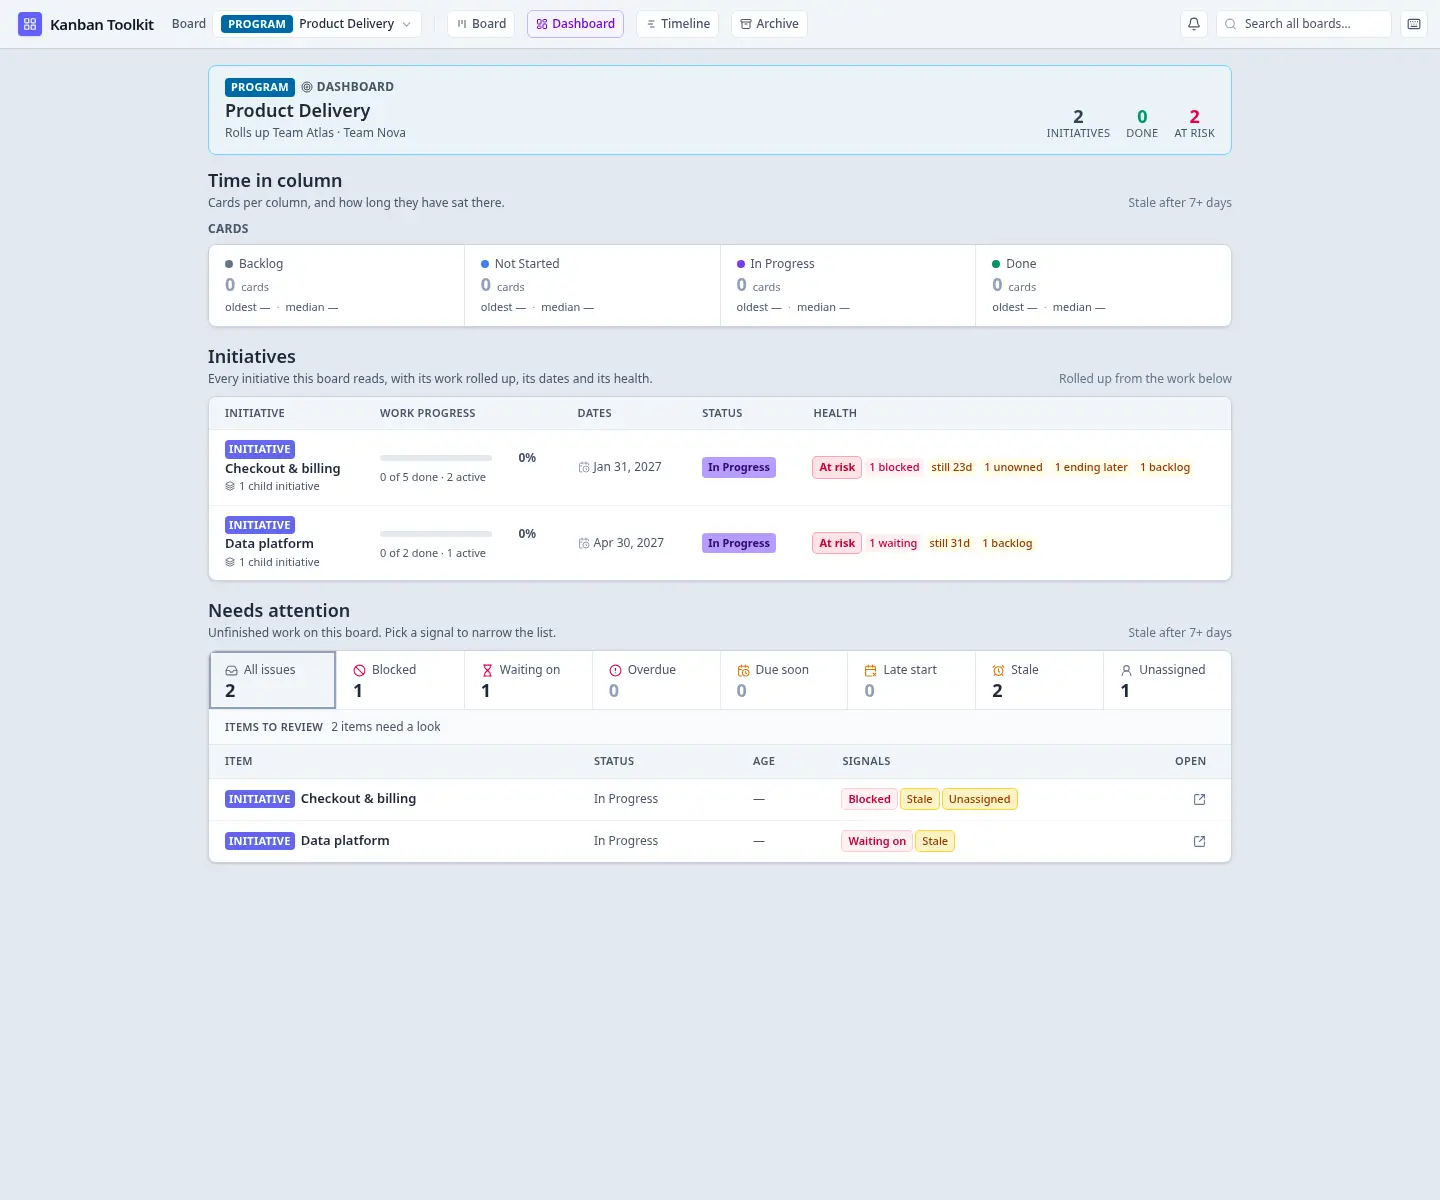
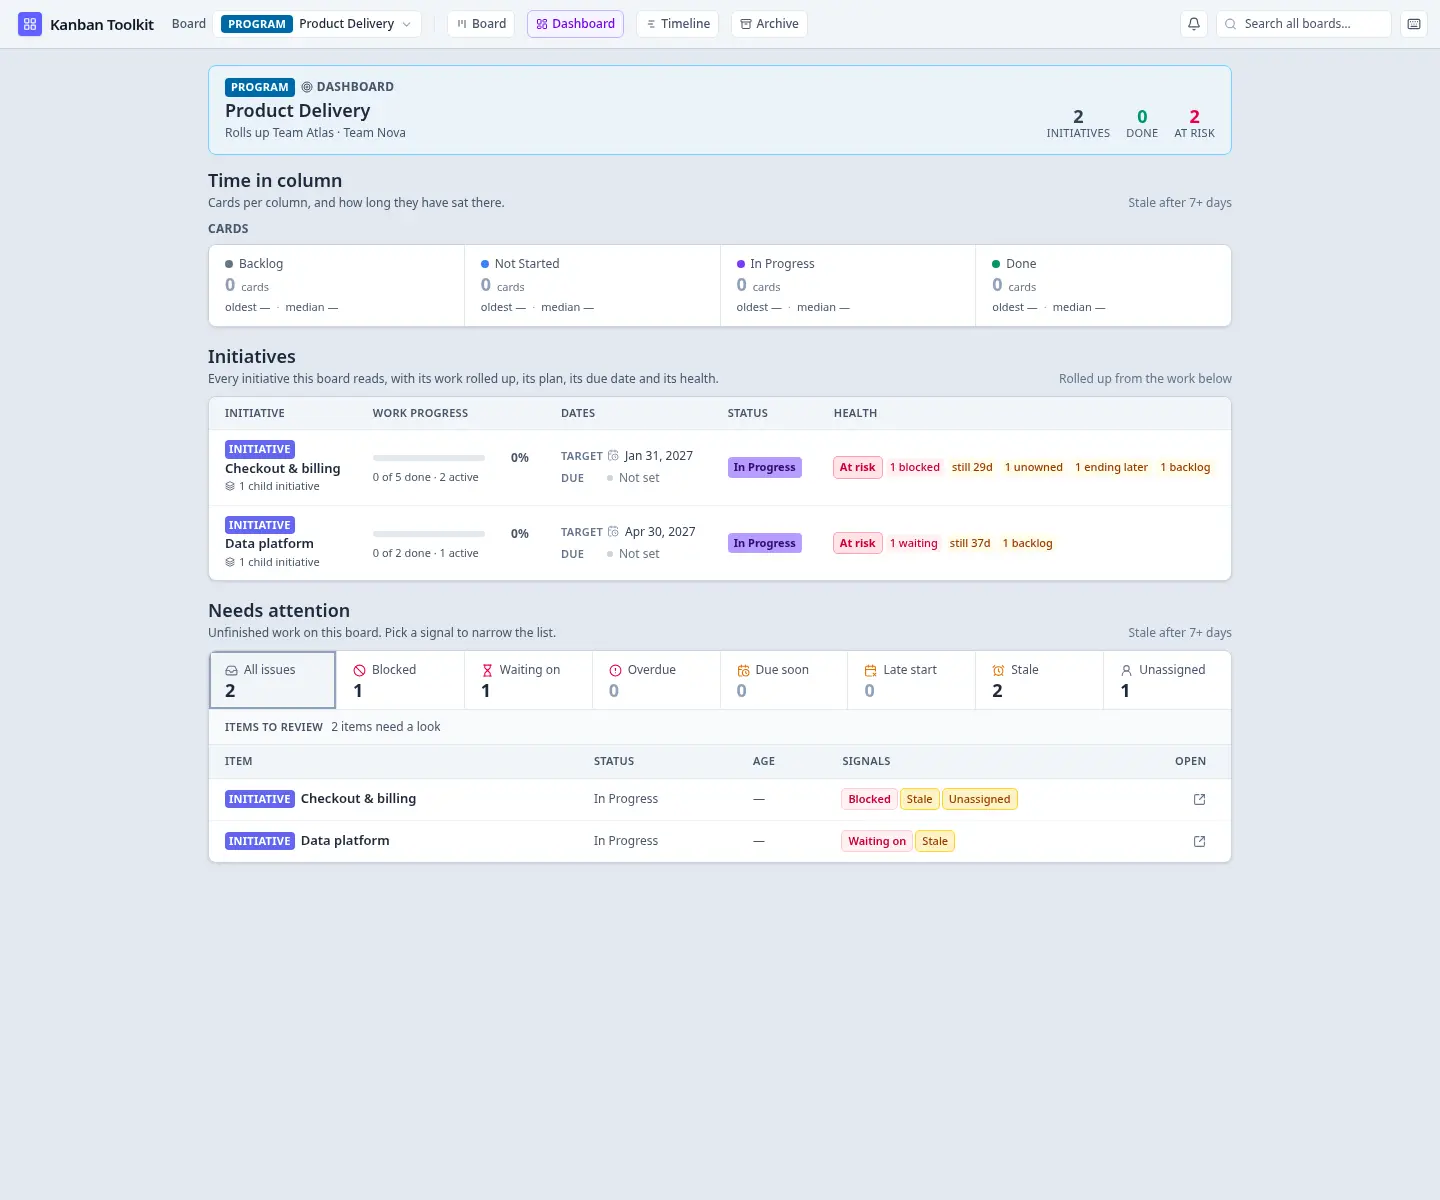
docs: bring the feature copy and screenshots back in step
The site still described a Boundary band and dashed hierarchy strings, and its screenshots showed the old waiting-on chips and add-card controls. The feature page now names External dependencies, describes the blue hierarchy and red dependency strings in their real direction, records the current Summary and timeline readings, and the home signal speaks the dependency count. Screenshots were regenerated from the shipped build.

Changed region(s): [[0.25, 0.3392, 0.8438, 0.4008], [0.3438, 0.4317, 0.75, 0.4625], [0.375, 0.3083, 0.5, 0.3392]]

diff --git a/site/pages/product.html b/site/pages/product.html
@@ -1,6 +1,6 @@
 <!--
 title: Features — the board, the work and the flow
-description: One card on many boards, flows you shape, three levels of detail, connections and boundary dependencies, initiatives and objectives, flow metrics, and an inbox that starts empty.
+description: One card on many boards, flows you shape, three levels of detail, connections and external dependencies, initiatives and objectives, flow metrics, and an inbox that starts empty.
 path: /product/
 -->
 <h1>Features</h1>
@@ -20,7 +20,7 @@ path: /product/
   the app never fetches, so it stays a way out to where the work lives rather than another integration.
 </p>
 <figure class="shot">
-  <img src="/img/board.webp" width="1440" height="1200" alt="The team board: the initiatives flow above the team's cards flow, with split columns, a WIP limit, blocked reasons, waiting-on chips, due dates and people on the cards." />
+  <img src="/img/board.webp" width="1440" height="1200" alt="The team board: the initiatives flow above the team's cards flow, with split columns, a WIP limit, blocked reasons, open-dependency counts, due dates and people on the cards." />
 </figure>
 
 <h2 id="flows">Flows shaped around your team</h2>
@@ -43,24 +43,24 @@ path: /product/
 <p>
   The <strong>Detail</strong> dial chooses how much of a card the board draws, per board and remembered
   in this browser. <strong>Full</strong> is every field. <strong>Summary</strong> keeps the title, type,
-  people and due date, with one badge: red for a blockage or risk, amber for a warning, with the
-  warning's own words when there is one and a count when there are several. <strong>Mini</strong> is a
-  colour tile that opens a reading card on hover or focus. It is a reading choice, not a permission, and design mode always
-  shows Full.
+  people, due date and dependency count, with no warning badges: warnings are Full's to spell out and
+  Mini's to mark. <strong>Mini</strong> is a colour tile that opens a reading card on hover or focus.
+  It is a reading choice, not a permission, and design mode always shows Full.
 </p>
 <figure class="shot">
-  <img src="/img/summary.webp" width="1440" height="1200" alt="The board at Summary: compact cards showing type, title, people, a due date at the foot and one badge — amber for a warning, red for a block." />
+  <img src="/img/summary.webp" width="1440" height="1200" alt="The board at Summary: compact cards showing type, title, people, and the due date and dependency count at the foot, with no warning badges." />
 </figure>
 
 <h2 id="connections">See the connections, not just the cards</h2>
 <p>
-  The <strong>Connections</strong> lens draws the graph the board already holds: dashed strings for a
-  parent to its children, solid arrows for a dependency, and a boundary dependency whose string runs
-  from the band below to the card that waits on it. It is off by default, remembered per board, and
+  The <strong>Connections</strong> lens draws the graph the board already holds: solid blue strings from a
+  parent to its children, solid red strings from a waiting item to the work it waits on, with a circle
+  at the start and an arrow at the end. An external dependency runs from the card here to the
+  <strong>External dependencies</strong> card below. It is off by default, remembered per board, and
   takes no click — a reading aid, not a mode.
 </p>
 <figure class="shot">
-  <img src="/img/connections.webp" width="1440" height="1200" alt="The board with Connections on: red dashed hierarchy strings and solid dependency arrows running between cards, with one arrow reaching down to the boundary band." />
+  <img src="/img/connections.webp" width="1440" height="1200" alt="The board with Connections on: blue hierarchy strings and red dependency strings running between cards, with one red arrow reaching down to the External dependencies band." />
 </figure>
 
 <h2 id="blocked">A block says why, and clears itself</h2>
@@ -70,9 +70,9 @@ path: /product/
   open, cleared when that work is done. There is no field to remember to update.
 </p>
 <p>
-  When the other end lives on another board, the <strong>Boundary</strong> band below the cards names
-  it, its state and the cards here that wait on it. The dependency is never moved or copied onto this
-  board.
+  When the other end lives on another board, the <strong>External dependencies</strong> band below the
+  cards places it in the stage its own rollup gives it, names its home board, and lists the cards here
+  that wait on it. The dependency is never moved or copied onto this board.
 </p>
 <figure class="shot shot-portrait">
   <img src="/img/blocked.webp" width="460" height="565" alt="A blocked card open in its panel: the red reason at the top beside Unblock, then the card's title, status, priority, people, tags and target dates." />
@@ -117,9 +117,10 @@ path: /product/
 <h2 id="every-view">One model, every altitude</h2>
 <p>
   A team board is one view. Program and portfolio boards aggregate the boards beneath them; the
-  dashboard surfaces what needs attention; the timeline places initiatives against their target dates;
-  the Flow view measures the same cards. The altitudes are lenses over one model, not copies of it: the
-  numbers at the top are the numbers at the bottom.
+  dashboard surfaces what needs attention; the timeline places initiatives against their target dates,
+  names each row's window, and points to bars outside the visible slice; the Flow view measures the
+  same cards. The altitudes are lenses over one model, not copies of it: the numbers at the top are
+  the numbers at the bottom.
 </p>
 <figure class="shot">
   <img src="/img/flights.webp" width="1440" height="1200" alt="The program dashboard: Team Atlas and Team Nova rolled up into Product Delivery, with its initiatives, their health and the work that needs attention." />

diff --git a/site/pages/home.html b/site/pages/home.html
@@ -150,7 +150,7 @@ path: /
       <ul class="signals">
         <li><span class="signal watch">still 17d</span>How long it has sat in this column, counted from its own moves.</li>
         <li><span class="signal risk">blocked</span>The reason is written on the card, in the column where it sits.</li>
-        <li><span class="signal watch">waiting on</span>The work it depends on, named — here or on another team's board.</li>
+        <li><span class="signal watch">2 open</span>The work it depends on, counted on the card and named in its panel — here or on another board.</li>
         <li><span class="signal quiet">unowned</span>Committed work with nobody's name on it, said where the work is.</li>
       </ul>
     </div>

diff --git a/scripts/shots.ts b/scripts/shots.ts
@@ -75,7 +75,7 @@ const SHOTS: Shot[] = [
   {
     name: 'summary',
     path: '/app?board=b-atlas',
-    // The middle density: type, title, people, the due date at the foot and one badge.
+    // The middle density: type, title, people, due date and dependency count — no warning badges.
     prepare: async (page) => {
       await page.getByRole('radio', { name: 'Summary' }).click()
       await page.waitForTimeout(400)

diff --git a/docs/using.md b/docs/using.md
@@ -44,8 +44,8 @@ dialog’s header names it, and there is nothing to change.
 The **Detail** dial in the board’s secondary bar — beside **Archive done**, **Export CSV** and
 **Filters** — chooses how much of a card the board draws, including an external dependency card:
 **Mini** (colour tiles, with blocked and warning markers), **Summary** (title, type, the dependency
-count beside it, people, the due date at the foot, and one red or amber badge — a single warning in
-its own words, or **2 warnings** when there are several) or **Full** (the whole card). Hover or focus a Mini
+count beside it, people, and the due date at the foot — no warning badges; those are Full's to spell
+out and Mini's to mark) or **Full** (the whole card). Hover or focus a Mini
 tile to read the card it stands for: its title and type, what it rolls up to, who is assigned, what
 it depends on, and why it has a red or amber marker. It is one person's reading, remembered in this
 browser per board. It changes only the drawing: counts, WIP, filters, search, drag, the card menu and
